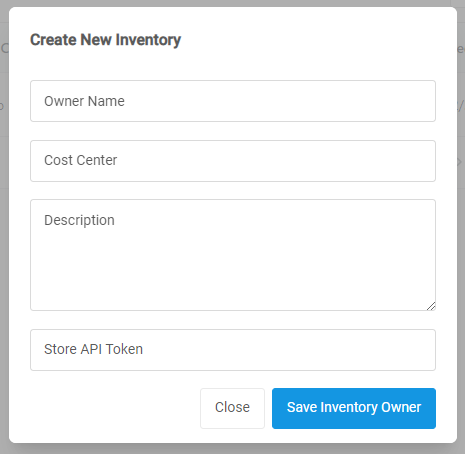
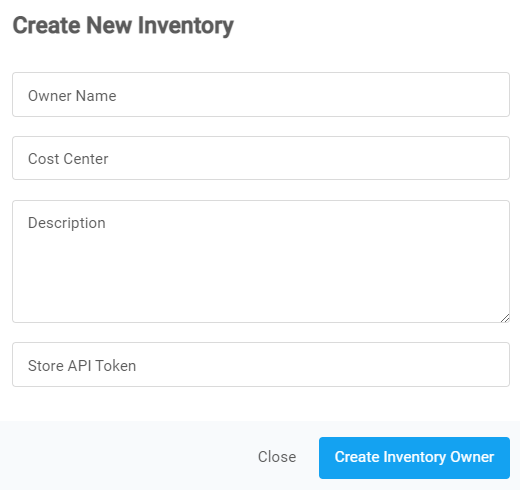
invenotry post

Changed region(s): [[0.0, 0.0, 1.0, 1.0], [0.0602, 0.6784, 0.9333, 0.8018]]

diff --git a/docs/inventoryowner/inventoryowner.md b/docs/inventoryowner/inventoryowner.md
@@ -2,8 +2,16 @@
 layout: default
 title: Inventory Owner
 nav_order: 13
-description: 
-permalink: 
+description:
+permalink:
+---
+
+##
 
 ---
 
+### Steps to create an Inventory Owner
+
+1. From the **Dashboard**, select **Inventory Owner.**
+
+    ![inventory_dashboard](../)
